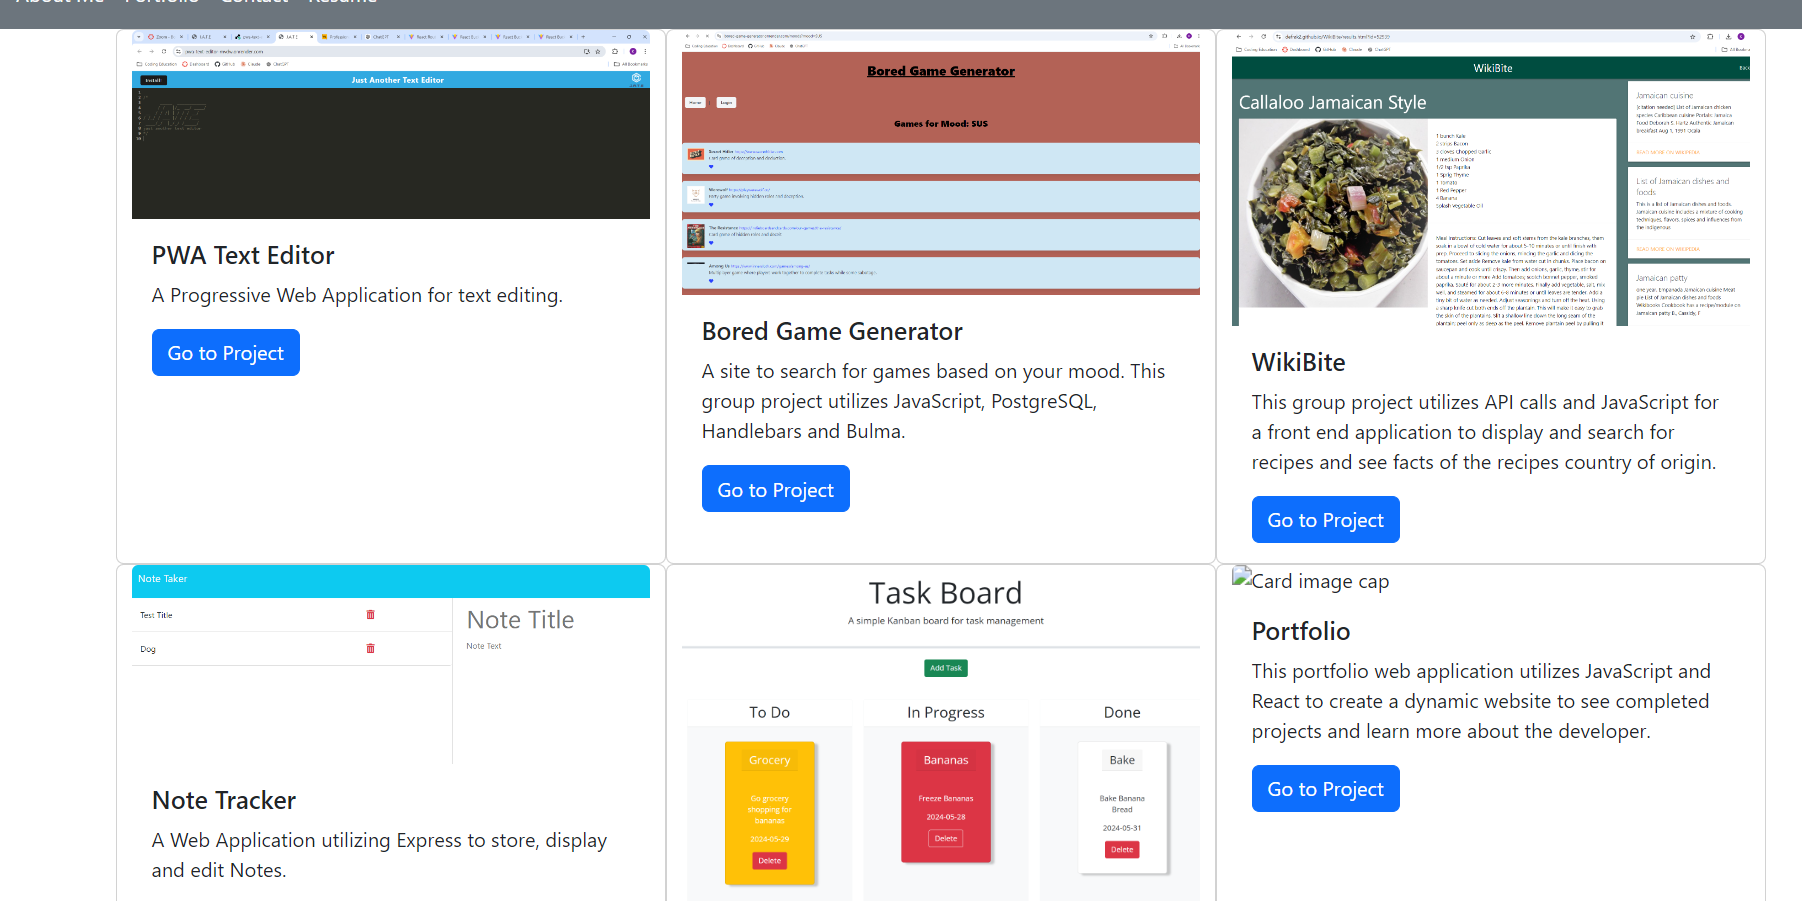
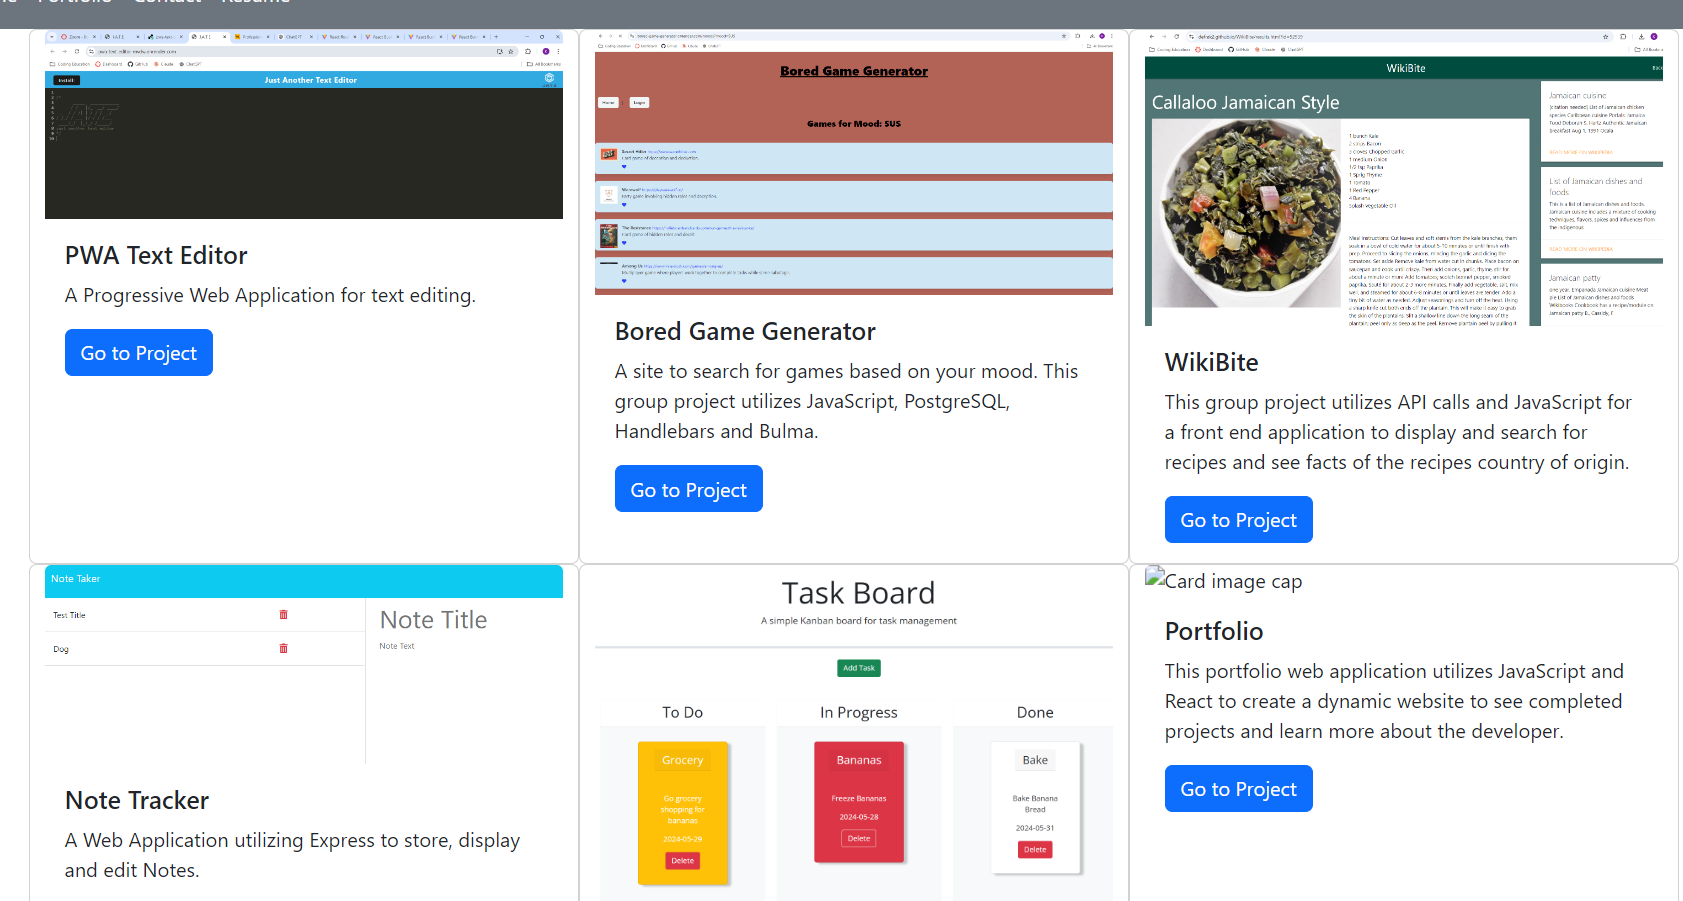
updated resume and layout of portfolio page and about page

diff --git a/src/pages/ResumePage.jsx b/src/pages/ResumePage.jsx
@@ -1,7 +1,48 @@
 export default function ResumePage() {
   return (
     <div id="resume-page">
-      <h1>FIND RESUME HERE</h1>
+      <h1>RESUME</h1>
+      <h3>SUMMARY</h3>
+      <p>
+        A driven and ambitious web developer passionate about collaboration and
+        forward thinking in the tech world with a focus on solving problems.
+      </p>
+      <p>
+        Combines creativity, functionality, and innovation while creating
+        user-friendly and efficient applications.
+      </p>
+      <p>
+        {" "}
+        Experienced problem solver, teammate, trainer and mentor in multiple
+        workplace environments.
+      </p>
+
+      <h3>TECHNICAL SKILLS</h3>
+      <p>Technical Languages: HTML5, CSS, JavaScript, SQL, React</p>
+      <p>
+        Applications: REST API, GitHub, PostgreSQL, MongoDB, Express, Node,
+        jQuery, Materialize, Bootstrap
+      </p>
+
+      <h3>EDUCATION</h3>
+      <h6>
+        Full Stack Web Development Boot Camp Certificate: The Ohio State
+        University, Columbus, OH
+      </h6>
+      <p>
+        An intensive program focused on gaining technical programming skills in
+        HTML5, CSS3, JavaScript, JQuery, Bootstrap, Firebase, Node.js, MySQL,
+        MongoDB, Express, Handelbars.js, and ReactJS.
+      </p>
+
+      <h6>
+        Bachelor’s Degree in Comparative Religious Studies: The Ohio State
+        University, Columbus, OH
+      </h6>
+      <p>
+        Program focused on contemplative practices across cultures and religious
+        practices.
+      </p>
     </div>
   );
 }

diff --git a/src/pages/PortfolioPage.jsx b/src/pages/PortfolioPage.jsx
@@ -2,7 +2,7 @@ export default function PortfolioPage() {
   return (
     <div className="container">
       <div className="row">
-        <div className="card col-sm" style={{ width: "18rem" }}>
+        <div className="card col-sm card-container" style={{ width: "18rem" }}>
           <img
             className="card-img-top"
             src="./assets/images/screenshot1.png"
@@ -11,7 +11,7 @@ export default function PortfolioPage() {
           <div className="card-body">
             <h5 className="card-title">PWA Text Editor</h5>
             <p className="card-text">
-              A Progressive Web Application for text editing.
+              A Progressive Web Application for text editing. This web application is available on render but also can be installed on the local computer or phone to be utilized in the PWA format. It utilizes JavaScript and IndexedDB for it's logic and storage of data.
             </p>
             <div className="button-container">
               <a
@@ -38,7 +38,7 @@ export default function PortfolioPage() {
           <div className="card-body">
             <h5 className="card-title">Bored Game Generator</h5>
             <p className="card-text">
-              A site to search for games based on your mood. This group project
+              This site is designed for a user to search for games based on their mood. This group project
               utilizes JavaScript, PostgreSQL, Handlebars and Bulma.
             </p>
             <div className="button-container">

diff --git a/src/pages/AboutMePage.jsx b/src/pages/AboutMePage.jsx
@@ -8,12 +8,14 @@ export default function AboutMePage() {
           alt="Responsive image"
         />
       </div>
-      <p className="about-paragraph text-center">
-        A driven and ambitious individual with a passion for web development.
-        Has a solid understanding and experience with full stack development.
-        Excited to work on projects that combine creativity, functionality, and
-        innovation.
-      </p>
+      <div className="paragraph-container">
+        <h5 className="about-paragraph text-center">
+          A driven and ambitious individual with a passion for web development.
+          Has a solid understanding and experience with full stack development.
+          Excited to work on projects that combine creativity, functionality,
+          and innovation.
+        </h5>
+      </div>
     </div>
   );
 }

diff --git a/src/index.css b/src/index.css
@@ -5,17 +5,31 @@
 .about-paragraph {
   max-width: 60%;
 }
+.paragraph-container {
+  display: flex;
+  justify-content: space-around;
+}
 .about-container {
-  max-width: 60%;
+  max-width: 80%;
   display: flex;
   flex-wrap: wrap;
-  justify-content: center;
+  justify-content: center; 
+  gap: 3rem;
 }
 
 .button-container {
   display: flex;
   flex-wrap: wrap;
-  justify-content: space-between;
+  justify-content: space-around;
+  gap: 2em;
+
+
+}
+.card-container {
+  display: flex;
+  flex-wrap: wrap;
+
+
 
 }
 
